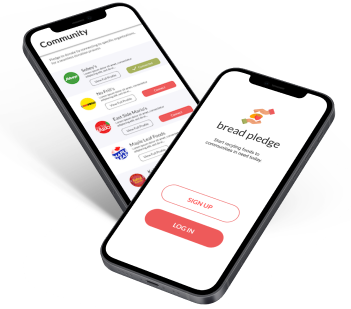
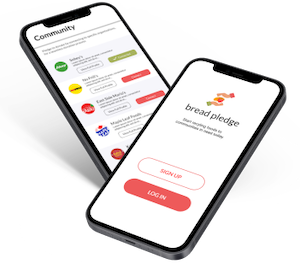
index

diff --git a/css/custom.css b/css/custom.css
@@ -48,8 +48,8 @@ body {
 
 /*index card images */
 .leapgrad-card .top-right-image {
-	width: 45%;
-	padding: 10% 10% 5% 0%;
+	width: 50%;
+	padding: 7% 10% 2% 0%;
 }
 
 .breadpledge-card .top-right-image {
